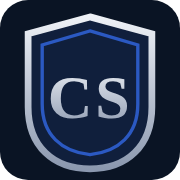
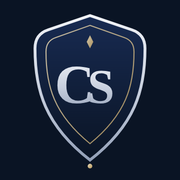
Redesign the brand crest and refine all brand touchpoints
The crest had become sloppy: blobby flourishes reading as a smudge at
header size, letters simply set side by side. Replaced with a cleanly
drawn heater shield (single continuous path, no filler shapes), a fine
double hairline border, a well-set CS monogram, a small champagne
diamond accent, and a single pendant point at the base — legible from
favicon size up to the hero watermark.

- assets/crest.svg: full redesign (this file drives the header, footer
  and hero watermark)
- assets/favicon.svg: rebuilt to match the same shield family
- assets/apple-touch-icon.png, assets/og-image.png: regenerated from
  the new crest for full consistency across every brand touchpoint
- Header/footer lockup: a thin champagne divider between crest and
  wordmark, tighter tracking, correct aspect-ratio sizing (no more
  stretch), refined mobile fallback
- Service-card icons: replaced the three emoji with bespoke champagne
  line-icons (needle & thread, ring, suitcase) matching the crest's
  palette and stroke weight

Verified: full regression suite green, header/footer/hero rendering
checked at desktop and mobile, zero console errors.

Claude-Session: https://claude.ai/code/session_01WYX7oUA4HvKkMwLhyxy3dk

diff --git a/index.html b/index.html
@@ -195,10 +195,12 @@
   <header class="site-header" id="top">
     <div class="header-inner">
       <a href="#top" class="brand">
-        <img class="brand-crest" src="assets/crest.svg" alt="Carlos Sanchez crest" width="46" height="54" />
+        <img class="brand-crest" src="assets/crest.svg" alt="Carlos Sanchez crest" width="120" height="148" />
         <span class="brand-text">
-          <span class="brand-name">Carlos Sanchez</span>
-          <span class="brand-sub" data-i18n="brand.tagline">Bespoke Tailoring · Medellín</span>
+          <span class="brand-name-group">
+            <span class="brand-name">Carlos Sanchez</span>
+            <span class="brand-sub" data-i18n="brand.tagline">Bespoke Tailoring · Medellín</span>
+          </span>
         </span>
       </a>
 
@@ -224,7 +226,7 @@
 
   <!-- ============ HERO ============ -->
   <section class="hero">
-    <img class="hero-watermark" src="assets/crest.svg" alt="" aria-hidden="true" />
+    <img class="hero-watermark" src="assets/crest.svg" alt="" aria-hidden="true" width="120" height="148" />
     <div class="hero-inner">
       <p class="eyebrow" data-i18n="hero.eyebrow">Bespoke Colombian Tailoring</p>
       <h1 class="hero-title">Carlos Sanchez<span class="sr-only"> — Bespoke Tailor in Medellín, Colombia. Custom suits, handmade.</span></h1>
@@ -277,17 +279,32 @@
 
       <div class="services">
         <div class="service-card">
-          <span class="service-icon">🧵</span>
+          <span class="service-icon"><svg viewBox="0 0 24 24" fill="none" stroke="url(#icoChampagne)" stroke-width="1.3" stroke-linecap="round" stroke-linejoin="round" aria-hidden="true">
+            <defs><linearGradient id="icoChampagne" x1="0" y1="0" x2="1" y2="1"><stop offset="0" stop-color="#e8d9b5"/><stop offset="1" stop-color="#b99a5f"/></linearGradient></defs>
+            <path d="M7 17 L20 4"/>
+            <path d="M19.2 4.8 L20.6 3.4" stroke-width="1.6"/>
+            <circle cx="7" cy="17" r="1.5" fill="#101f3c" stroke="url(#icoChampagne)"/>
+            <path d="M7 17 C4 18.3 2.2 20.6 3.6 23"/>
+          </svg></span>
           <h3 data-i18n="services.s1.title">Full Bespoke Suits</h3>
           <p data-i18n="services.s1.text">A unique paper pattern, two to three fittings, and a suit that exists nowhere else in the world.</p>
         </div>
         <div class="service-card">
-          <span class="service-icon">💍</span>
+          <span class="service-icon"><svg viewBox="0 0 24 24" fill="none" stroke="url(#icoChampagne2)" stroke-width="1.3" stroke-linecap="round" stroke-linejoin="round" aria-hidden="true">
+            <defs><linearGradient id="icoChampagne2" x1="0" y1="0" x2="1" y2="1"><stop offset="0" stop-color="#e8d9b5"/><stop offset="1" stop-color="#b99a5f"/></linearGradient></defs>
+            <ellipse cx="12" cy="15.5" rx="6" ry="3.6"/>
+            <path d="M9 10.2 L12 5 L15 10.2 L12 13 Z" fill="url(#icoChampagne2)" stroke="none"/>
+          </svg></span>
           <h3 data-i18n="services.s2.title">Weddings &amp; Ceremony</h3>
           <p data-i18n="services.s2.text">Morning coats, tuxedos and guayabera-inspired formalwear for the most important days.</p>
         </div>
         <div class="service-card">
-          <span class="service-icon">🧳</span>
+          <span class="service-icon"><svg viewBox="0 0 24 24" fill="none" stroke="url(#icoChampagne3)" stroke-width="1.3" stroke-linecap="round" stroke-linejoin="round" aria-hidden="true">
+            <defs><linearGradient id="icoChampagne3" x1="0" y1="0" x2="1" y2="1"><stop offset="0" stop-color="#e8d9b5"/><stop offset="1" stop-color="#b99a5f"/></linearGradient></defs>
+            <rect x="4" y="9" width="16" height="11" rx="2.2"/>
+            <path d="M9 9 V6.6 a1.6 1.6 0 0 1 1.6 -1.6 h2.8 a1.6 1.6 0 0 1 1.6 1.6 V9"/>
+            <line x1="4" y1="14.3" x2="20" y2="14.3"/>
+          </svg></span>
           <h3 data-i18n="services.s3.title">Wardrobe Consulting</h3>
           <p data-i18n="services.s3.text">Travel capsules and seasonal wardrobes built around your life, climate and calendar.</p>
         </div>
@@ -704,7 +721,7 @@
   <!-- ============ FOOTER ============ -->
   <footer class="site-footer">
     <div class="container footer-inner">
-      <img class="footer-crest" src="assets/crest.svg" alt="" aria-hidden="true" />
+      <img class="footer-crest" src="assets/crest.svg" alt="" aria-hidden="true" width="120" height="148" />
       <p class="footer-brand">Carlos Sanchez</p>
       <p class="footer-est">A la Medida · Medellín · Est. 1962</p>
       <div class="footer-links">

diff --git a/css/styles.css b/css/styles.css
@@ -201,7 +201,7 @@ body::after {
 
 .site-header.scrolled .header-inner { padding: 0.4rem 0; }
 
-.site-header.scrolled .brand-crest { width: 38px; height: 45px; }
+.site-header.scrolled .brand-crest { width: 36px; }
 
 .header-inner {
   width: min(1180px, 94vw);
@@ -217,33 +217,53 @@ body::after {
 .brand {
   display: flex;
   align-items: center;
-  gap: 0.75rem;
+  gap: 0.9rem;
   text-decoration: none;
   color: inherit;
 }
 
 .brand-crest {
-  width: 46px;
-  height: 54px;
-  filter: drop-shadow(0 2px 6px rgba(0, 0, 0, 0.35));
-  transition: width 0.3s ease, height 0.3s ease;
+  width: 44px;
+  aspect-ratio: 120 / 148;
+  height: auto;
+  filter: drop-shadow(0 2px 8px rgba(0, 0, 0, 0.4));
+  transition: width 0.3s ease;
+  flex: none;
 }
+
+.brand-text {
+  display: flex;
+  align-items: center;
+  gap: 0.9rem;
+}
+
+.brand-text::before {
+  content: "";
+  width: 1px;
+  height: 30px;
+  background: linear-gradient(180deg, transparent, var(--champagne-soft), transparent);
+  flex: none;
+}
+
+.brand-name-group { display: grid; gap: 0.15rem; }
 
 .brand-name {
   display: block;
   font-family: var(--serif);
-  font-weight: 600;
-  font-size: 1.3rem;
-  line-height: 1.1;
-  letter-spacing: 0.04em;
+  font-weight: 500;
+  font-size: 1.32rem;
+  line-height: 1;
+  letter-spacing: 0.05em;
+  color: var(--silver-light);
 }
 
 .brand-sub {
   display: block;
-  font-size: 0.66rem;
-  letter-spacing: 0.22em;
+  font-size: 0.6rem;
+  letter-spacing: 0.26em;
+  text-indent: 0.06em;
   text-transform: uppercase;
-  color: rgba(247, 244, 238, 0.6);
+  color: var(--champagne);
 }
 
 .main-nav {
@@ -345,9 +365,11 @@ body::after {
   position: absolute;
   left: 50%;
   top: 50%;
-  width: min(720px, 120vw);
-  transform: translate(-50%, -52%);
-  opacity: 0.045;
+  width: min(620px, 100vw);
+  aspect-ratio: 120 / 148;
+  height: auto;
+  transform: translate(-50%, -54%);
+  opacity: 0.05;
   pointer-events: none;
   filter: grayscale(1);
 }
@@ -453,6 +475,18 @@ body::after {
   padding: 1.9rem 1.6rem;
   backdrop-filter: blur(6px);
 }
+
+.service-icon {
+  display: grid;
+  place-items: center;
+  width: 46px;
+  height: 46px;
+  margin-bottom: 1.1rem;
+  border-radius: 50%;
+  background: radial-gradient(circle at 35% 30%, rgba(217, 197, 154, 0.14), transparent 70%), rgba(255, 255, 255, 0.03);
+  border: 1px solid rgba(217, 197, 154, 0.3);
+}
+.service-icon svg { width: 22px; height: 22px; }
 
 .service-icon { font-size: 1.6rem; }
 
@@ -1347,7 +1381,7 @@ body::after {
   background: var(--hairline);
 }
 .footer-inner { display: grid; justify-items: center; gap: 0.5rem; }
-.footer-crest { width: 46px; opacity: 0.85; margin-bottom: 0.6rem; }
+.footer-crest { width: 44px; aspect-ratio: 120 / 148; height: auto; opacity: 0.9; margin-bottom: 0.7rem; }
 .footer-brand { font-family: var(--serif); font-size: 1.6rem; font-weight: 500; color: var(--silver-light); letter-spacing: 0.06em; }
 .footer-est { font-size: 0.68rem; letter-spacing: 0.3em; text-transform: uppercase; color: var(--champagne); }
 .footer-links { display: flex; gap: 1.6rem; flex-wrap: wrap; justify-content: center; margin: 1.4rem 0 1.6rem; }
@@ -1578,8 +1612,10 @@ body.loaded .hero-inner > *:nth-child(4) { transition-delay: 1s; }
 /* compact single-row header on phones */
 @media (max-width: 820px) {
   .brand { gap: 0.55rem; min-width: 0; }
-  .brand-crest { width: 36px; height: 42px; }
-  .site-header.scrolled .brand-crest { width: 32px; height: 38px; }
+  .brand-crest { width: 34px; }
+  .site-header.scrolled .brand-crest { width: 30px; }
+  .brand-text::before { display: none; }
+  .brand-text { gap: 0; }
   .brand-name { font-size: 1.05rem; white-space: nowrap; }
   .brand-sub { display: none; }
   .lang-btn { padding: 0.38rem 0.55rem; font-size: 0.68rem; }
